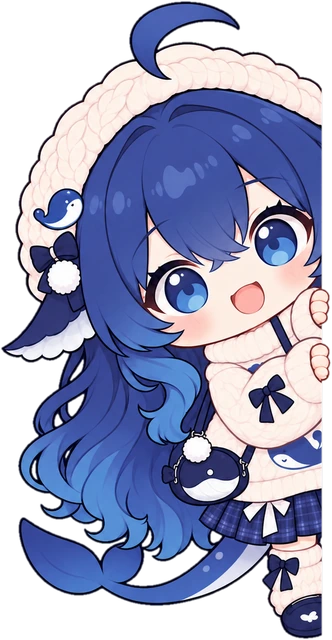
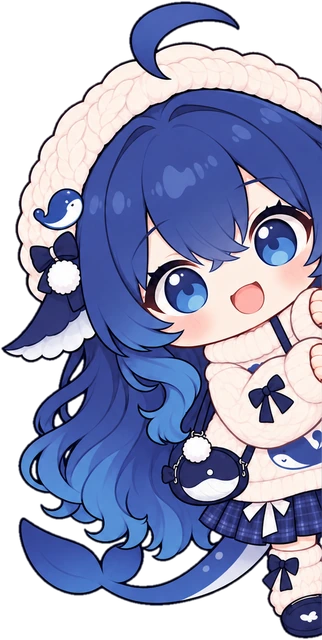
贴边立绘导入时自动裁到切口，不再要求模型把切口画在边框上
生图模型很少把切口正好画在图片边框上（差几像素到一百多像素），碎发、扒边的手指还会伸出切口，
导入按人物外框裁，切口和边框之间留下一条缝；柔化边缘时切口也被收成半透明。App 把图片边框对齐屏幕边缘，
贴边时就看得到缝（1.4.0 的魔术师 Gemini 最明显）。

- prepare.py：SKIP_EDGE 时找出那条直切口（各行第一个不透明像素最集中的窄条），裁到切口，
  伸出去的碎发和切口上的深色描边一起去掉；柔化 alpha 时切口那侧先复制边缘列，不再被收进去
- art.py 机检：只查有没有一条直切口、在不在对的一边；离边框远的提示导入时自动裁
- 重新处理已发布的 16 张：魔术师 Gemini、Kimi、毛衣 DeepSeek 各 4 张，GLM、Grok 右边各 2 张

Changed region(s): [[0.0311, 0.0, 1.0, 1.0], [0.0932, 0.875, 0.2174, 0.9375]]

diff --git a/tools/prepare.py b/tools/prepare.py
@@ -130,6 +130,70 @@ def ground_helpers(im: Image.Image, labels, keep, main) -> Image.Image:
     return Image.fromarray(out, "RGBA")
 
 
+def find_cut(rgba: np.ndarray, side: str):
+    """贴边立绘的切口：画面里那条从她身上直直切下去的竖线。返回 (切口在第几列, 多少行落在切口上)，找不到返回 (None, 0)。
+    生图模型很少把切口正好画在边框上：常常离边框几像素到一百多像素，几缕头发、扒边的手指还会伸出切口外，
+    有时切口上还描了一道深色边。这里不指望它画准，直接找：每一行最靠切口那侧的第一个不透明像素，
+    落在同一窄条里的行最多的那条就是切口；取条里九成的行都够得着的那列，切口上的行几乎都能贴到边上。"""
+    a = rgba[..., 3] >= 16
+    if side == "right":
+        rgba, a = rgba[:, ::-1], a[:, ::-1]
+    W = a.shape[1]
+    rows = a.any(1)
+    if not rows.any():
+        return None, 0
+    first = np.where(rows, a.argmax(1), W)
+    f = first[rows]
+    tol = max(3, W // 200)
+    counts = np.array([((f >= c) & (f <= c + tol)).sum() for c in range(W // 2)])
+    c = int(counts.argmax())
+    share = counts[c] / len(f)
+    cut = int(np.percentile(f[(f >= c) & (f <= c + tol)], 90))
+    # 切口上描了深色边（规则写了不要，模型有时还是画）：比里面暗一大截的那几列一起裁掉
+    on = (first >= c) & (first <= c + tol)
+    lum = rgba[on][:, :, :3].mean(-1)
+    # 描边不一定从切口第一列就开始（前面常有一两列半透明的过渡），所以看切口往里 10 列内最靠里的那列深色
+    if lum.shape[1] > cut + 24:
+        prof = lum[:, cut:cut + 24].mean(0)
+        inside = np.median(prof[12:])
+        dark = np.where(prof[:10] < inside - 40)[0]
+        if len(dark):
+            cut += int(dark[-1]) + 1
+    if side == "right":
+        cut = W - 1 - cut
+    return cut, share
+
+
+def snap_to_cut(im: Image.Image, side: str) -> Image.Image:
+    """裁到切口：切口那一侧的透明缝、伸出切口的碎发和描边都去掉，切口正好压在图片边框上。
+    App 把图片边框对齐屏幕边缘（index.html 的 dockCut），切口离边框差几像素，贴边时就看得到一条缝。"""
+    cut, share = find_cut(np.array(im), side)
+    if cut is None or share < 0.25:
+        print(f"  没找到{'左' if side == 'left' else '右'}边的切口（只有 {share:.0%} 的行对得上），不裁")
+        return im
+    box = (cut, 0, im.width, im.height) if side == "left" else (0, 0, cut + 1, im.height)
+    gap = cut if side == "left" else im.width - 1 - cut
+    if gap:
+        print(f"  切口离{'左' if side == 'left' else '右'}边框 {gap} 像素（{share:.0%} 的行在切口上）：裁到切口")
+    return im.crop(box)
+
+
+def soften_alpha(im: Image.Image, side: str) -> Image.Image:
+    """边缘收一像素再羽化，去掉抠图留下的硬边和杂色。切口那一侧先把边上那列往外复制几列再做，
+    做完再裁回来：不然切口也会被收进去、变成半透明，贴在屏幕边上看得到一条缝。"""
+    alpha = im.getchannel("A")
+    pad = 6 if side in ("left", "right") else 0
+    if pad:
+        a = np.array(alpha)
+        a = np.pad(a, ((0, 0), (pad, 0) if side == "left" else (0, pad)), mode="edge")
+        alpha = Image.fromarray(a, "L")
+    alpha = alpha.filter(ImageFilter.MinFilter(3)).filter(ImageFilter.GaussianBlur(1))
+    if pad:
+        alpha = alpha.crop((pad, 0, pad + im.width, im.height) if side == "left" else (0, 0, im.width, im.height))
+    im.putalpha(alpha)
+    return im
+
+
 def prepare(src: str, character: str, name: str) -> Path:
     im = Image.open(src).convert("RGBA")
     skip = os.environ.get("SKIP_EDGE", "")
@@ -152,7 +216,9 @@ def prepare(src: str, character: str, name: str) -> Path:
         mask, labels, keep, main = drop_debris(background_mask(im))
     im.putalpha(mask)
     im = ground_helpers(im, labels, keep, main)  # 先挪，再柔化边缘，免得原位置留下一圈看不见的晕边
-    im.putalpha(im.getchannel("A").filter(ImageFilter.MinFilter(3)).filter(ImageFilter.GaussianBlur(1)))
+    if skip in ("left", "right"):
+        im = snap_to_cut(im, skip)
+    im = soften_alpha(im, skip)
     im = im.crop(im.getbbox())
     im = im.resize((round(im.width * TARGET_H / im.height), TARGET_H), Image.LANCZOS)
     out_dir = CHARACTERS / character

diff --git a/tools/art.py b/tools/art.py
@@ -268,12 +268,18 @@ def check_image(path, cid, pose_name, batch=None, st=None):
     edge = "贴边" in pose["rules"] or "探头" in pose["rules"]
     if edge:
         side = pose["side"]
-        # 切口不一定正好压在边框上：差几十像素的透明缝导入时会裁掉（prepare.py 裁到人物外框），只要切口是一条直的、离边框不远
-        solid = np.where(m[t:b + 1].mean(0) > 0.15)[0]   # 身体盖住一成半以上高度的列：切口就是最靠边的那一列
-        gap = W if not len(solid) else (solid[0] if side == "left" else W - 1 - solid[-1])
+        # 切口不用正好压在边框上：导入时 prepare.py 会找到那条直切口、裁到边框（透明缝、伸出去的碎发、切口上的描边都去掉）。
+        # 这里只查有没有一条直切口、在不在靠这一边的地方
+        from PIL import Image
+        from prepare import find_cut
+        cut, share = find_cut(np.array(Image.open(path).convert("RGBA")), side)
+        gap = W if cut is None else (cut if side == "left" else W - 1 - cut)
         far = (r >= W - 2) if side == "left" else (l <= 1)
-        if gap > W * 0.06:
-            out.append({"level": "fail", "msg": f"{'左' if side == 'left' else '右'}边框没从她身上切过去（贴边图要贴着{'左' if side == 'left' else '右'}边）"})
+        name = "左" if side == "left" else "右"
+        if cut is None or share < 0.25 or gap > W * 0.3:
+            out.append({"level": "fail", "msg": f"{name}边没有一条从她身上直直切下去的切口（贴边图要被{name}边框切掉一部分）"})
+        elif gap > W * 0.02:
+            out.append({"level": "ok", "msg": f"切口离{name}边框 {gap} 像素：导入时自动裁到边框"})
         if far:
             out.append({"level": "fail", "msg": f"另一边（{'右' if side == 'left' else '左'}边）也贴着边框了：方向可能画反了"})
     else:
